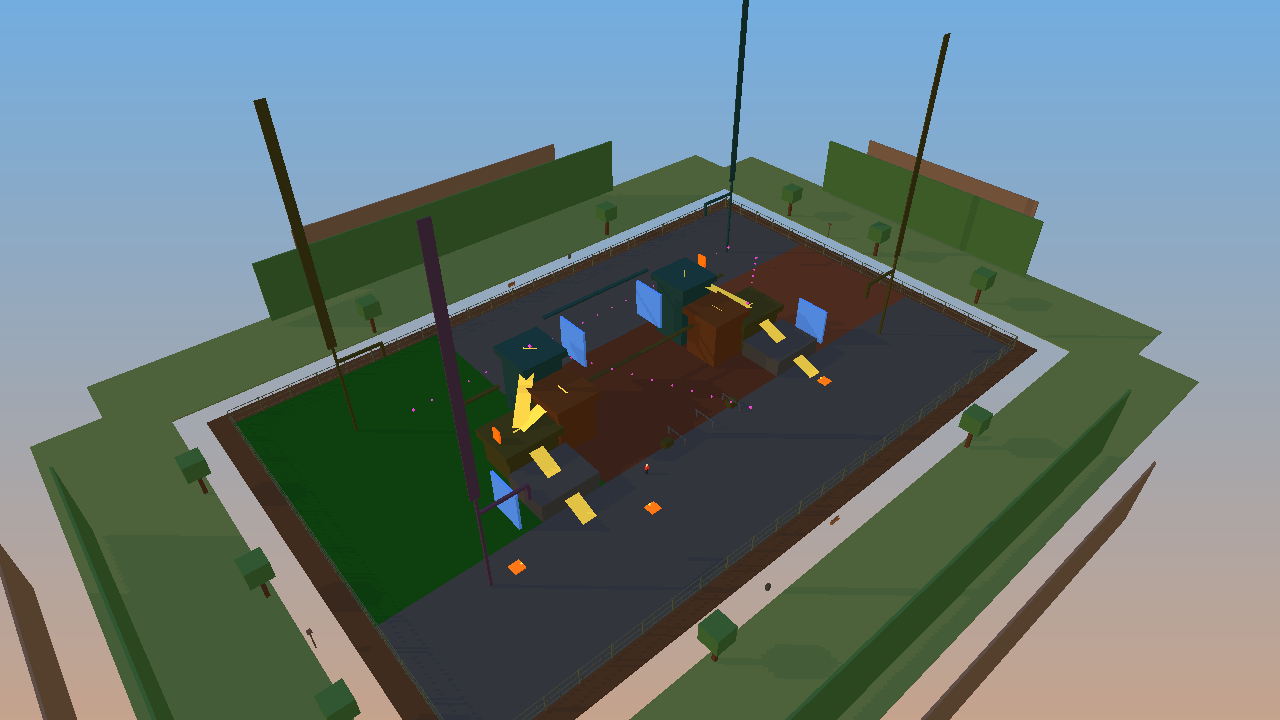
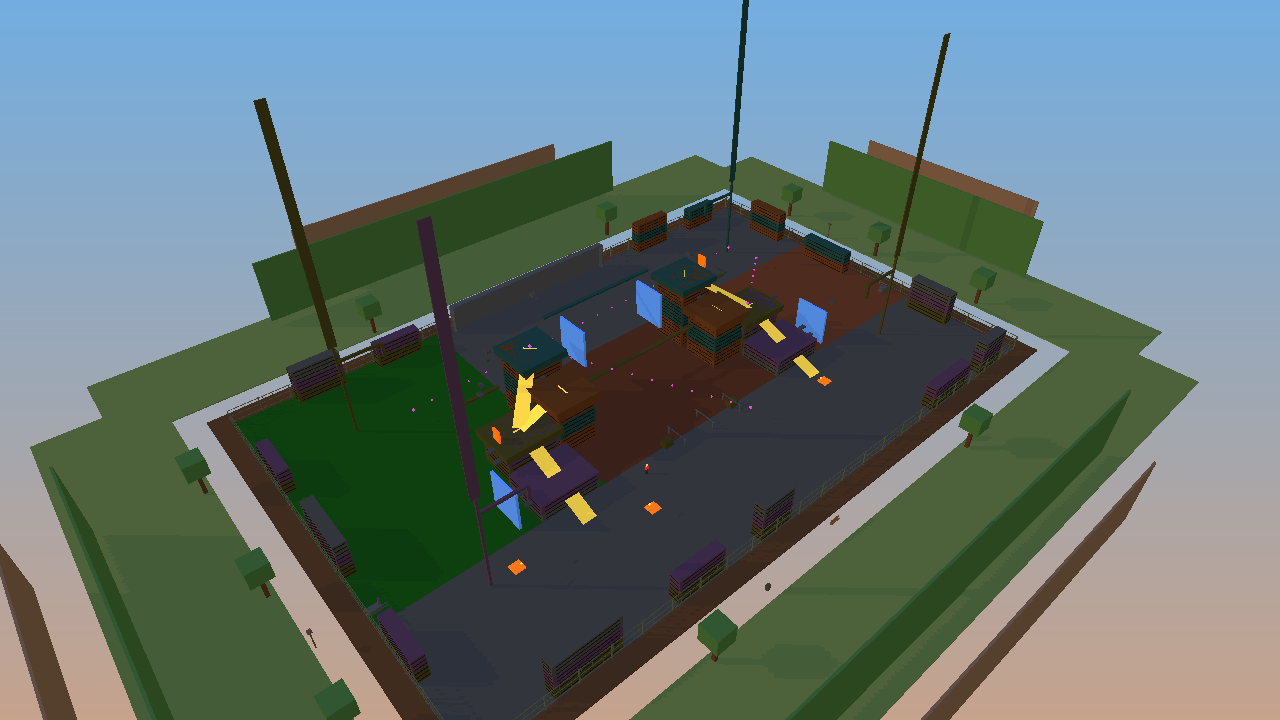
Record the three-arena frame budget and the Stack Yard stills.
Add the missing script metas, document steady frames on every arena, and
check in the re-rendered Stack Yard overview, eye, and edge.

diff --git a/Docs/Performance.md b/Docs/Performance.md
@@ -22,13 +22,15 @@ A quiet frame is 72. A frame where all three AI refresh together is 144. Worst o
 
 ## Proof
 
-`Tools/StrafeJumpSim` runs `FrameBudget.Run`. It is a 120 second round at 60 Hz (7200 frames) with one human stand-in and three AI on the Mega Park loop. The human and the It follow the loop. The two runners call `EnemyAi.Evade`. Path and loop searches refresh at 5.2 Hz, or sooner after 1.25 m of travel, which is the same rule the pawn uses.
+`Tools/StrafeJumpSim` runs `FrameBudget.RunAll`. Each arena is a 120 second round at 60 Hz (7200 frames) with one human stand-in and three AI. The human and the It follow that arena's loop. The two runners call `EnemyAi.Evade`. Path and loop searches refresh at 5.2 Hz, or sooner after 1.25 m of travel, which is the same rule the pawn uses. Mega Park, Pocket Park, and Stack Yard each stay under the spike cap.
 
 ```
 frame-budget seconds=120 hz=60 frames=7200 players=4 ai=3 map=mega-park median=72 worst=144 ratio=2.00 move=230400 ai=117096 pose=172800 hud=36000 audio=14400 round=21600 decides=3079 loopSearches=3079 budget=240 headroom=96 steady=ok
+frame-budget seconds=120 hz=60 frames=7200 players=4 ai=3 map=pocket-park median=72 worst=144 ratio=2.00 move=230400 ai=116256 pose=172800 hud=36000 audio=14400 round=21600 decides=3044 loopSearches=3044 budget=240 headroom=96 steady=ok
+frame-budget seconds=120 hz=60 frames=7200 players=4 ai=3 map=stack-yard median=72 worst=144 ratio=2.00 move=230400 ai=117096 pose=172800 hud=36000 audio=14400 round=21600 decides=3079 loopSearches=3079 budget=240 headroom=96 steady=ok
 ```
 
-3079 decides across three AI is about 8.6 Hz each, not 60. Loop searches match decides: one projection per refresh. A second projection of the same point is a cache hit and returns the same point.
+On Mega Park, 3079 decides across three AI is about 8.6 Hz each, not 60. Loop searches match decides on every arena: one projection per refresh. A second projection of the same point is a cache hit and returns the same point. The loop cache resets when the arena changes, so Pocket Park and Stack Yard do not reuse a Mega Park sample.
 
 ## What the scan found
 

diff --git a/Docs/StackYard_SkillRoutes.md b/Docs/StackYard_SkillRoutes.md
@@ -19,7 +19,7 @@ Start (28.0, 16.0) end (16.0, 28.0). Chevrons sit on Cling_Yard. climb 2.40 m (C
 
 ## Tiers
 
-Ground, mid decks at 6 m, and roofs at 12 m. Concrete steps, olive container stacks, amber rises, and teal warehouse roofs are solid piles on those footprints. Narrow catwalks link the towers, and cranes mark the four corners. Cling_Yard and Cling_East climb to the mid decks. Cling_Roof and Cling_Lane climb from the mid decks to the roofs. Launch_Mid and Launch_Roof throw onto those tiers. Zip_Cross leaves the west roof for the yard. Slides run back down both stairs. A fall off a roof lands inside the fence, above the kill plane.
+Ground, mid decks at 6 m, and roofs at 12 m. Container rows line the fence, the towers read as stacked shells, and a warehouse shell closes the north edge. Stair treads sit on the slides and forklifts and pallets sit as low cover. The chase grid is the same set of open cells. Narrow catwalks link the towers, and cranes mark the four corners. Cling_Yard and Cling_East climb to the mid decks. Cling_Roof and Cling_Lane climb from the mid decks to the roofs. Launch_Mid and Launch_Roof throw onto those tiers. Zip_Cross leaves the west roof for the yard. Slides run back down both stairs. A fall off a roof lands inside the fence, above the kill plane.
 
 ## Chokepoints
 
